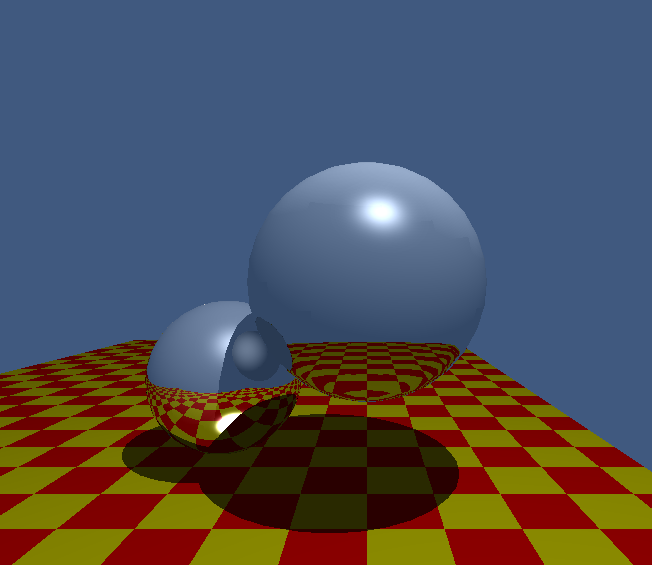
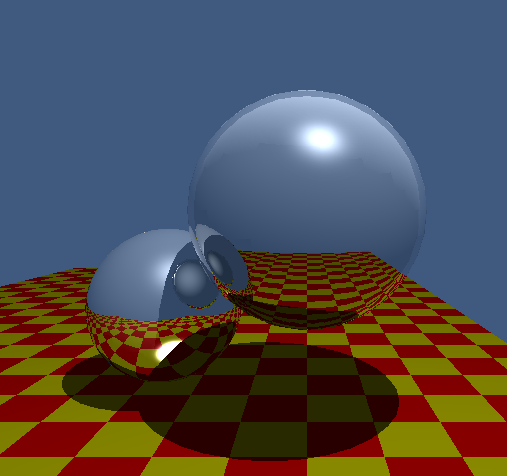
Transmission patch

diff --git a/src/Renderers/RenderSharp.RayTracing/Shaders/Shading/Stock/MaterialShaders/PrincipledShader.cs b/src/Renderers/RenderSharp.RayTracing/Shaders/Shading/Stock/MaterialShaders/PrincipledShader.cs
@@ -76,8 +76,24 @@ public partial struct PrincipledShader : IMaterialShader
 
         if (material.transmission > material.metallic)
         {
-            n *= cast.isBackFace ? -1 : 1;
-            var refr = Hlsl.Refract(v, n, material.ior);
+            var refrN = n;
+            var ior = material.ior;
+
+            if (cast.isBackFace)
+            {
+                refrN = -refrN;
+            }
+            else
+            {
+                ior = 1 / ior;
+            }
+
+            var refr = Hlsl.Refract(v, refrN, ior);
+            
+            // Cannot refract
+            if (Hlsl.Length(refr) == 0)
+                refr = Hlsl.Reflect(ray.direction, cast.smoothNormal);
+
             rayBuffer[fIndex] = Ray.Create(cast.position, refr);
             attenuationBuffer[index2D] *= material.transmission;
         }

diff --git a/src/Renderers/RenderSharp.RayTracing/Shaders/Shading/Stock/MaterialShaders/TransmissionShader.cs b/src/Renderers/RenderSharp.RayTracing/Shaders/Shading/Stock/MaterialShaders/TransmissionShader.cs
@@ -47,8 +47,16 @@ public partial struct TransmissionShader : IMaterialShader
             return;
 
 
-        var n = cast.smoothNormal * (cast.isBackFace ? -1 : 1);
-        var r = Hlsl.Refract(ray.direction, n, material.ior);
+        var n = cast.smoothNormal;
+        var ior = material.ior;
+
+        if (cast.isBackFace)
+        {
+            n *= -1;
+            ior = 1 - (1 - ior);
+        }
+
+        var r = Hlsl.Refract(ray.direction, n, ior);
 
         // Cannot refract
         if (Hlsl.Length(r) == 0)

diff --git a/csci711-docs/Assignment6/README.md b/csci711-docs/Assignment6/README.md
@@ -4,4 +4,6 @@
 
 This image was rendered in RenderSharp. 
 
-I'm aware that this image does not look quite right, but I'm not sure how the refraction is wrong, and I ran out of time to attempt to solve it.
+I'm not sure how to handle critical point collisions. I just reflected and it looks a little wrong, but more or less correct.
+
+Adam Dernis
